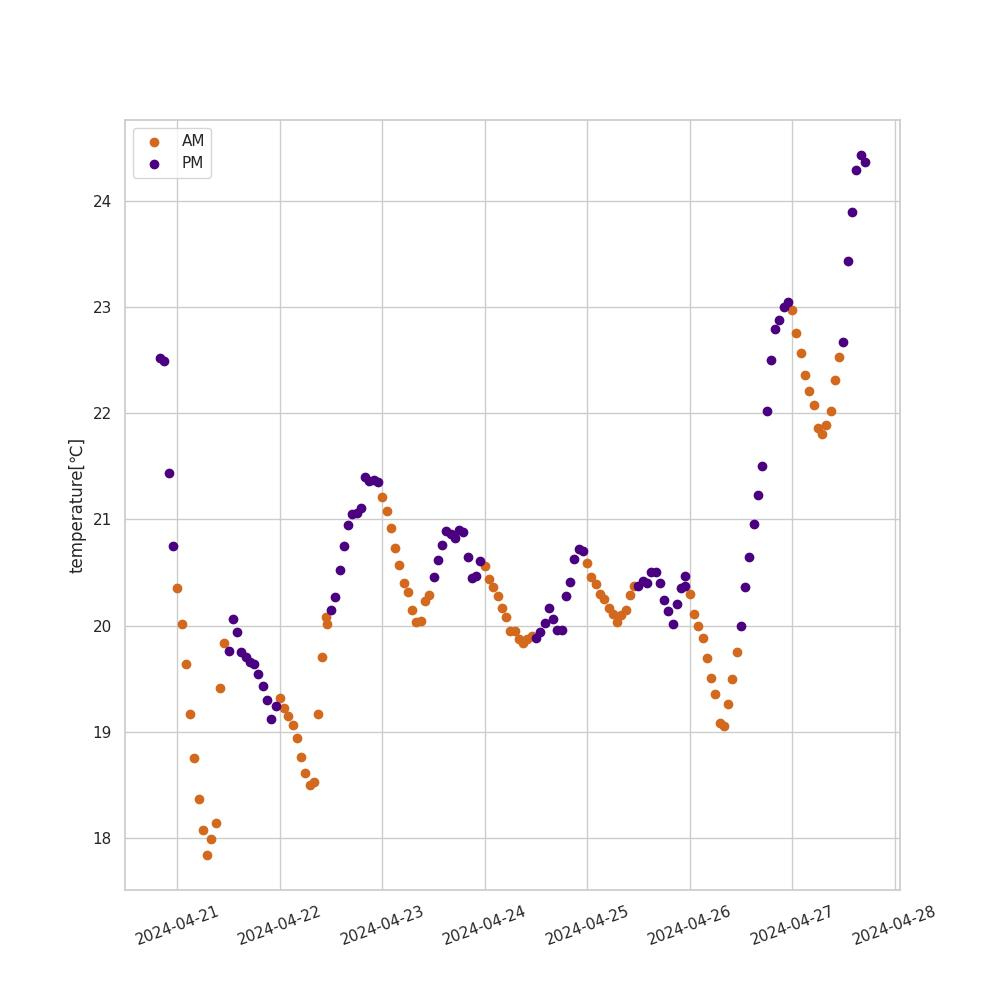
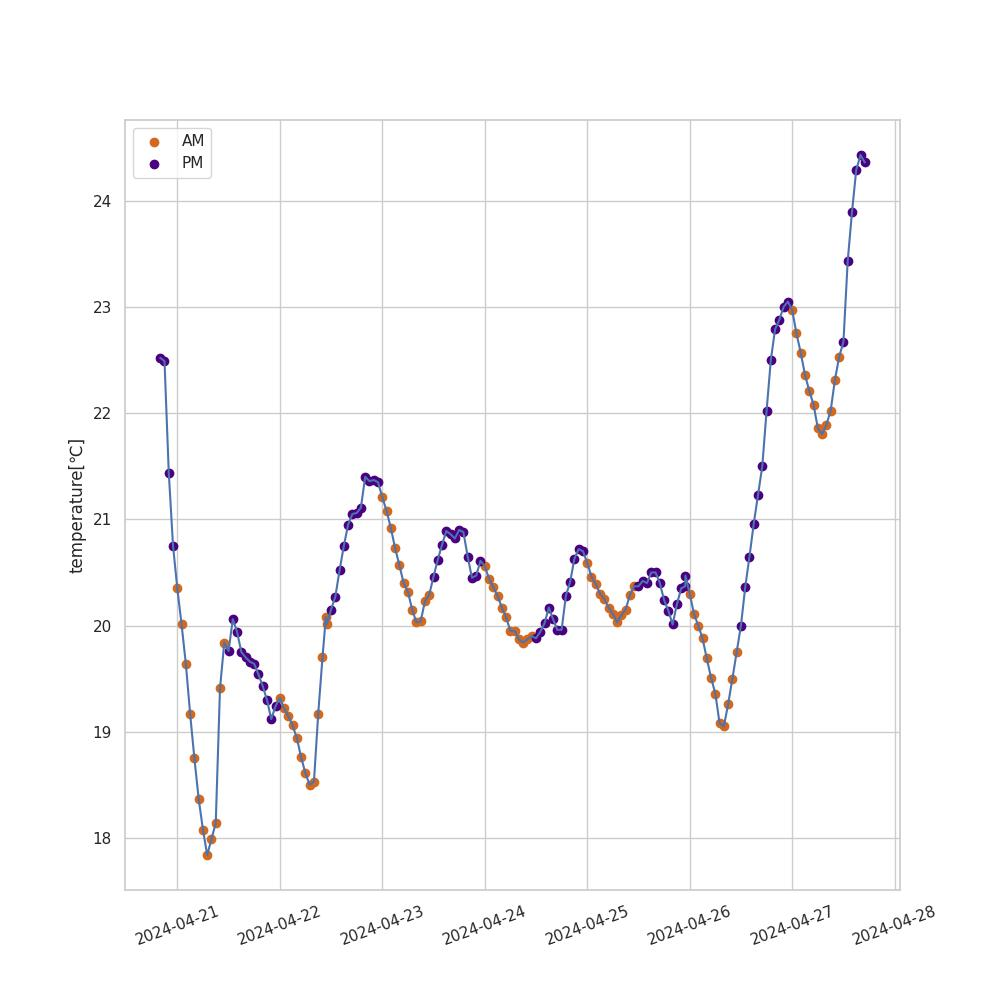
Update: 2024-04-27 17:13:57

diff --git a/create_plot.py b/create_plot.py
@@ -60,10 +60,10 @@ y = tempture
 plt.xticks(rotation=20)
 plt.ylabel('temperature[℃]')
 plt.grid(True)
-# plt.plot(x, y, 
+plt.plot(x, y, 
 	# marker='o', 
 	# linestyle='None',
-	# markerfacecolor='red',
+	markerfacecolor='red')
 	# markeredgecolor='red')
 am_x = []
 am_y = []
@@ -78,6 +78,8 @@ for i, date in enumerate(x):
 		pm_y.append(y[i])
 plt.scatter(am_x, am_y, color='chocolate', marker='o', label='AM')
 plt.scatter(pm_x, pm_y, color='indigo', marker='o', label='PM')
+ #plt.bar(am_x, am_y, color='chocolate', label='AM')
+# plt.bar(pm_x, pm_y, color='indigo', label='PM')
 plt.legend()
 plt.savefig('/home/pi/Desktop/cotoha/cotoha-weather.github.io/image1.jpg')
 plt.clf()
